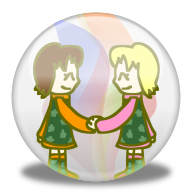
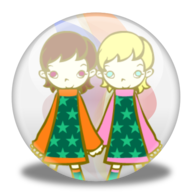
[browser] Update Orange Lounge easter egg

diff --git a/browser/base/content/aboutDialog.css b/browser/base/content/aboutDialog.css
@@ -29,6 +29,19 @@
   margin-inline-start: 30px;
 }
 
+#leftBox[sajoumode] {
+  background-image: image-set(url("chrome://branding/content/rihito-marble.png"), url("chrome://branding/content/rihito-marble@2x.png") 2x);
+  background-repeat: no-repeat;
+  background-size: 192px auto;
+  background-position: center 40px;
+  /* min-width and min-height create room for the logo; logo is 192px tall w/
+     40px above it, this leaves 8px on the bottom at the minimum height */
+  min-width: 210px;
+  min-height: 240px;
+  margin-top: 20px;
+  margin-inline-start: 30px;
+}
+
 #rightBox {
   background-image: url("chrome://branding/content/about-wordmark.svg");
   background-repeat: no-repeat;

diff --git a/browser/base/content/aboutDialog.js b/browser/base/content/aboutDialog.js
@@ -119,6 +119,14 @@ function init() {
     document.getElementById("release").hidden = false;
   }
 
+  let boxLogo = document.getElementById("leftBox");
+  document.addEventListener("keydown", (e) => {
+    if (e.shiftKey) { boxLogo.setAttribute("sajoumode", ""); }
+  });
+  document.addEventListener("keyup", (e) => {
+    if (!e.shiftKey) { boxLogo.removeAttribute("sajoumode"); }
+  });
+
   document
     .getElementById("aboutDialogEscapeKey")
     .addEventListener("command", () => {
